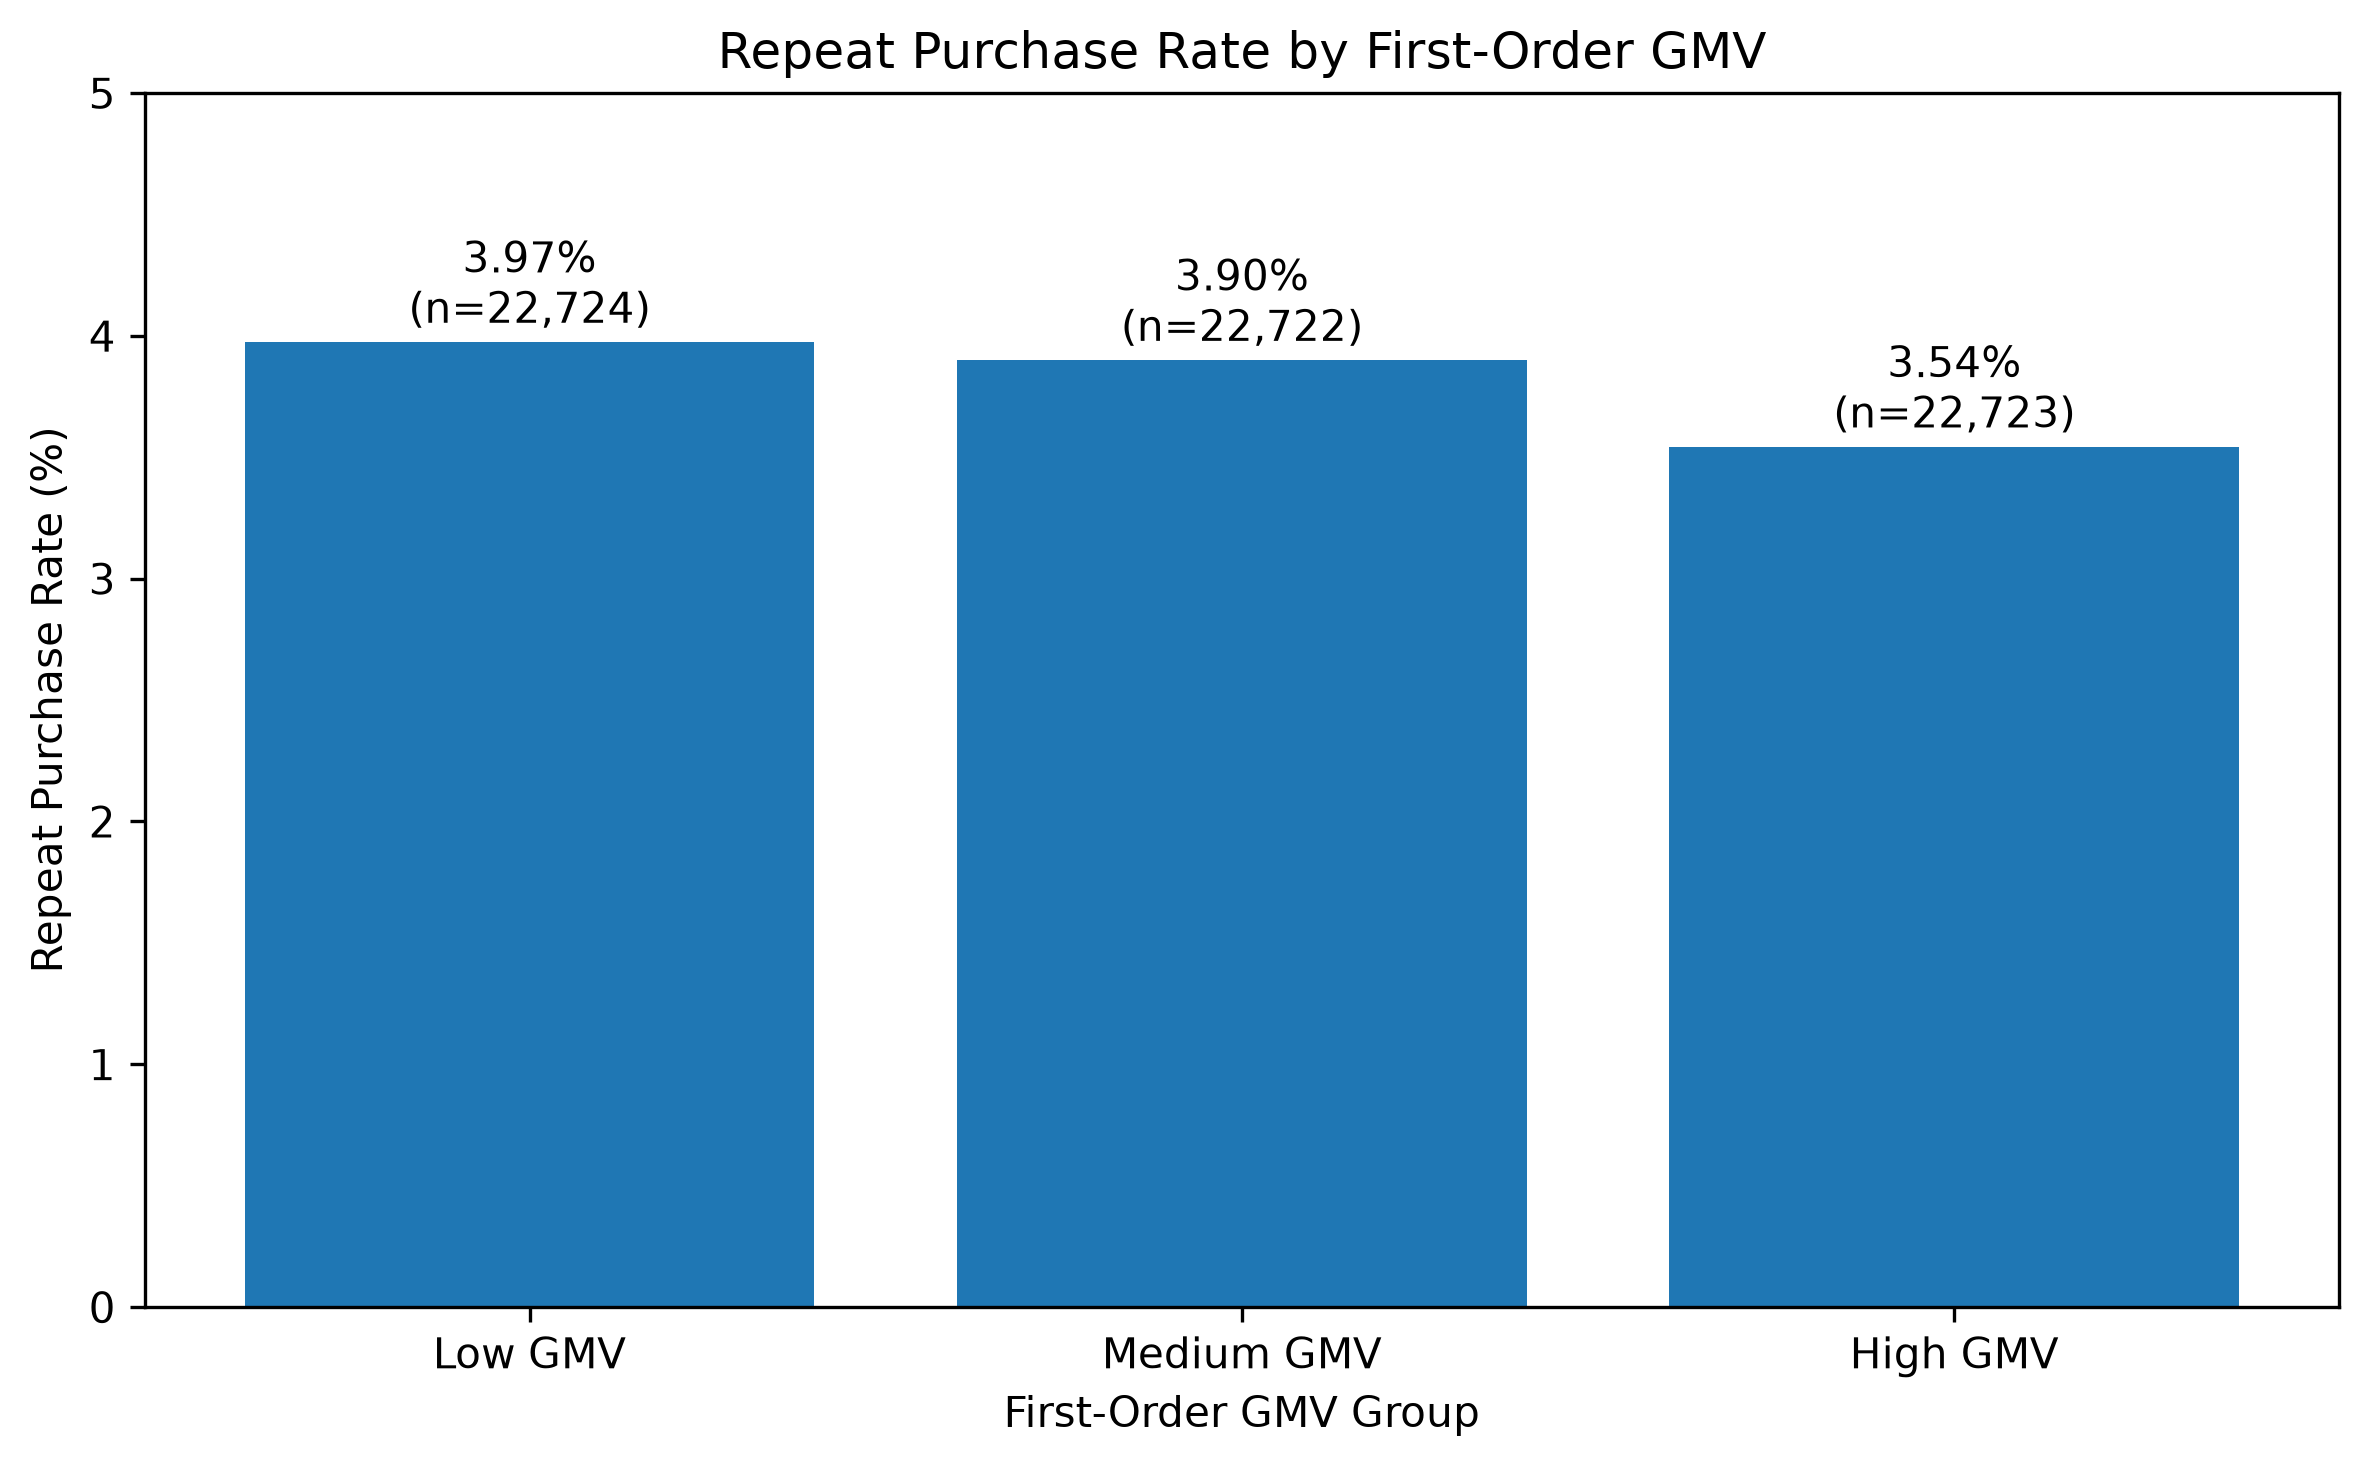
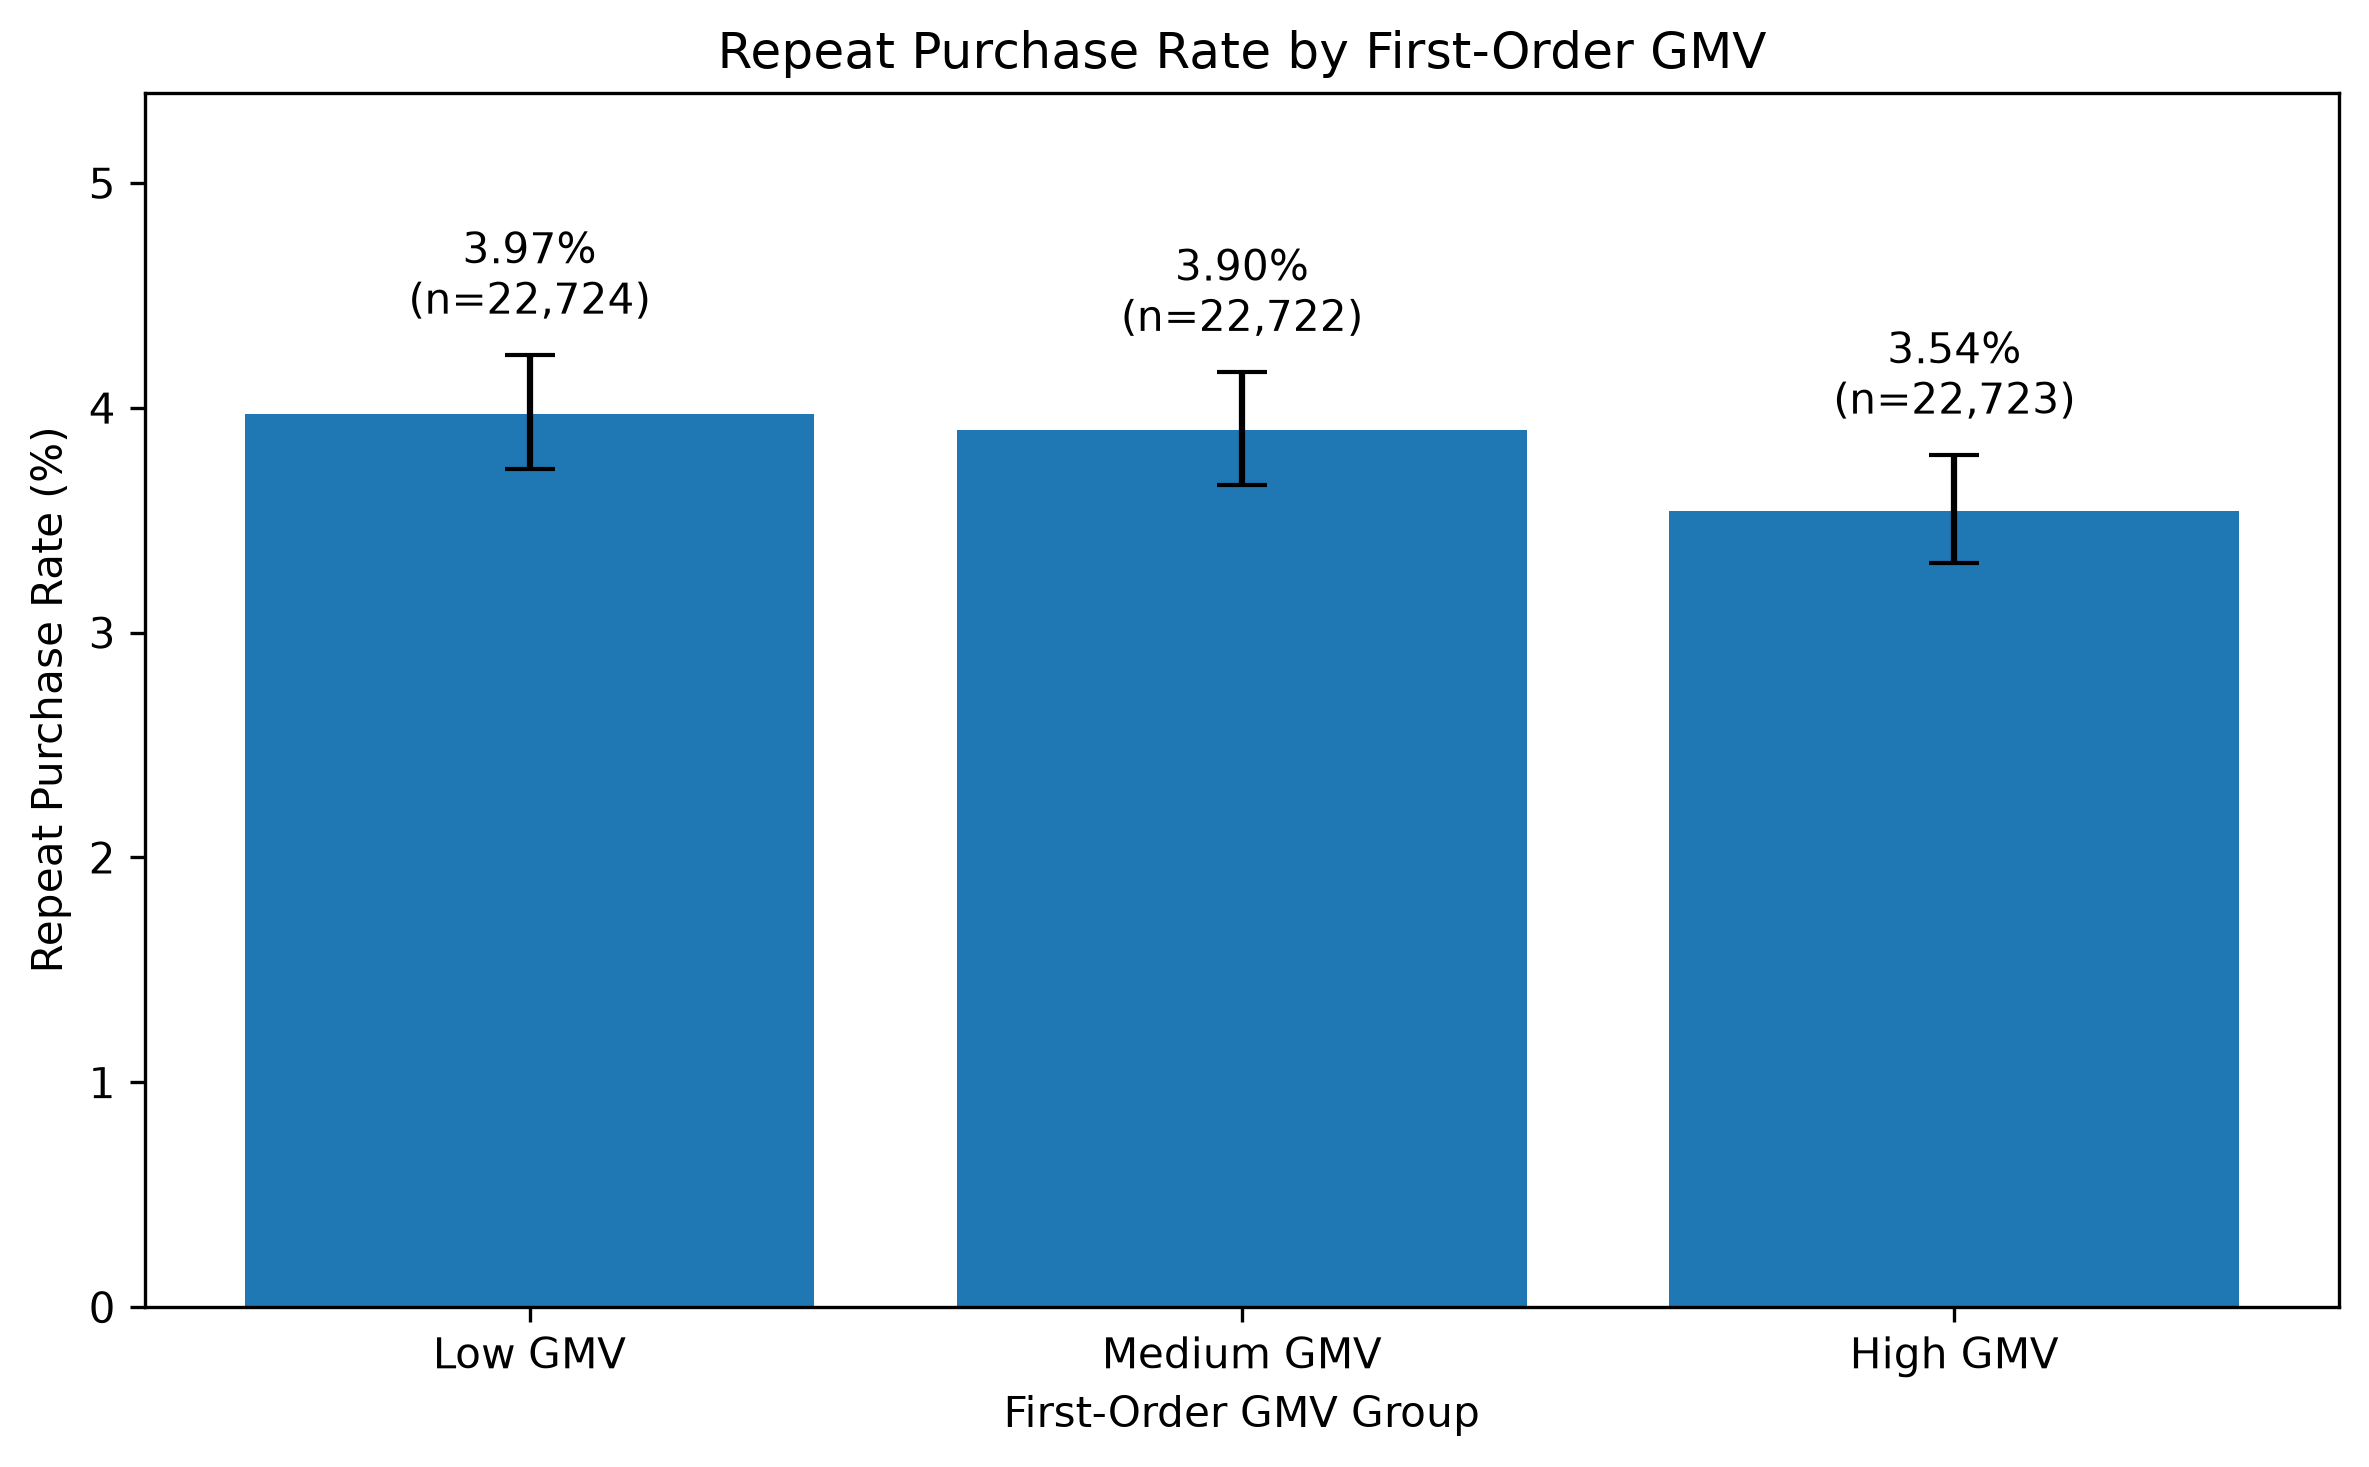
Improve statistical charts with confidence intervals

diff --git a/analysis/day6_stats.py b/analysis/day6_stats.py
@@ -141,11 +141,44 @@ print("Rank-biserial correlation:", round(rank_biserial, 4))
 
 chart_data = review_summary["low_rating_pct"]
 
+# Calculate Wilson 95% confidence intervals
+low_rating_counts = (
+    review_df.assign(low_review=(review_df["review_score"] <= 2))
+    .groupby("is_late")["low_review"]
+    .sum()
+)
+
+ci_lower = []
+ci_upper = []
+
+for group_key in [False, True]:
+    count = int(low_rating_counts.loc[group_key])
+    n = int(review_summary.loc[group_key, "count"])
+
+    lower, upper = proportion_confint(
+        count, n, method="wilson"
+    )
+
+    ci_lower.append(lower * 100)
+    ci_upper.append(upper * 100)
+
+values = [
+    chart_data.loc[False],
+    chart_data.loc[True]
+]
+
+yerr = [
+    [v - lo for v, lo in zip(values, ci_lower)],
+    [hi - v for v, hi in zip(values, ci_upper)]
+]
+
 plt.figure(figsize=(8, 5))
 
 bars = plt.bar(
     ["On-time / Early", "Late"],
-    [chart_data.loc[False], chart_data.loc[True]]
+    values,
+    yerr=yerr,
+    capsize=6
 )
 
 plt.title("Low Review Ratings by Delivery Status")
@@ -153,13 +186,13 @@ plt.ylabel("Orders with 1–2 Star Reviews (%)")
 plt.xlabel("Delivery Status")
 plt.ylim(0, 75)
 
-# Add percentage labels
 for bar, group_key in zip(bars, [False, True]):
     height = bar.get_height()
     sample_n = int(review_summary.loc[group_key, "count"])
+
     plt.text(
         bar.get_x() + bar.get_width() / 2,
-        height + 1,
+        height + 2,
         f"{height:.1f}%\n(n={sample_n:,})",
         ha="center"
     )
@@ -684,27 +717,55 @@ gmv_plot = gmv_summary.reindex(
     ["Low GMV", "Medium GMV", "High GMV"]
 )
 
+# Calculate Wilson 95% confidence intervals
+ci_lower = []
+ci_upper = []
+
+for group_name in gmv_plot.index:
+    repeats = int(gmv_plot.loc[group_name, "sum"])
+    n = int(gmv_plot.loc[group_name, "count"])
+
+    lower, upper = proportion_confint(
+        repeats, n, method="wilson"
+    )
+
+    ci_lower.append(lower * 100)
+    ci_upper.append(upper * 100)
+
+values = gmv_plot["repeat_rate_pct"].tolist()
+
+yerr = [
+    [v - lo for v, lo in zip(values, ci_lower)],
+    [hi - v for v, hi in zip(values, ci_upper)]
+]
+
 plt.figure(figsize=(8, 5))
 
 bars = plt.bar(
     gmv_plot.index,
-    gmv_plot["repeat_rate_pct"]
+    values,
+    yerr=yerr,
+    capsize=6
 )
 
 plt.title("Repeat Purchase Rate by First-Order GMV")
 plt.xlabel("First-Order GMV Group")
 plt.ylabel("Repeat Purchase Rate (%)")
 
-plt.ylim(0, 5)
+plt.ylim(0, 5.4)
 
-for bar, group_name in zip(bars, gmv_plot.index):
+for bar, group_name, upper in zip(
+    bars, gmv_plot.index, ci_upper
+):
     height = bar.get_height()
     sample_n = int(gmv_plot.loc[group_name, "count"])
+
     plt.text(
         bar.get_x() + bar.get_width() / 2,
-        height + 0.08,
+        upper + 0.12,
         f"{height:.2f}%\n(n={sample_n:,})",
-        ha="center"
+        ha="center",
+        va="bottom"
     )
 
 plt.tight_layout()
@@ -924,11 +985,20 @@ upper_error = (
     plot_df["ci_upper_pct"] - plot_df["late_rate_pct"]
 )
 
-plt.figure(figsize=(10, 9))
+# Include delivered-order sample size in state labels
+state_labels = [
+    f"{state} (n={n:,})"
+    for state, n in zip(
+        plot_df["customer_state"],
+        plot_df["delivered_orders"]
+    )
+]
+
+plt.figure(figsize=(11, 10))
 
 plt.errorbar(
     plot_df["late_rate_pct"],
-    plot_df["customer_state"],
+    state_labels,
     xerr=[lower_error, upper_error],
     fmt="o",
     capsize=3
@@ -936,7 +1006,7 @@ plt.errorbar(
 
 plt.title("Late Delivery Rate by State (95% Wilson CI)")
 plt.xlabel("Late Delivery Rate (%)")
-plt.ylabel("Customer State")
+plt.ylabel("Customer State (Delivered Orders)")
 plt.grid(axis="x", alpha=0.3)
 
 plt.tight_layout()
